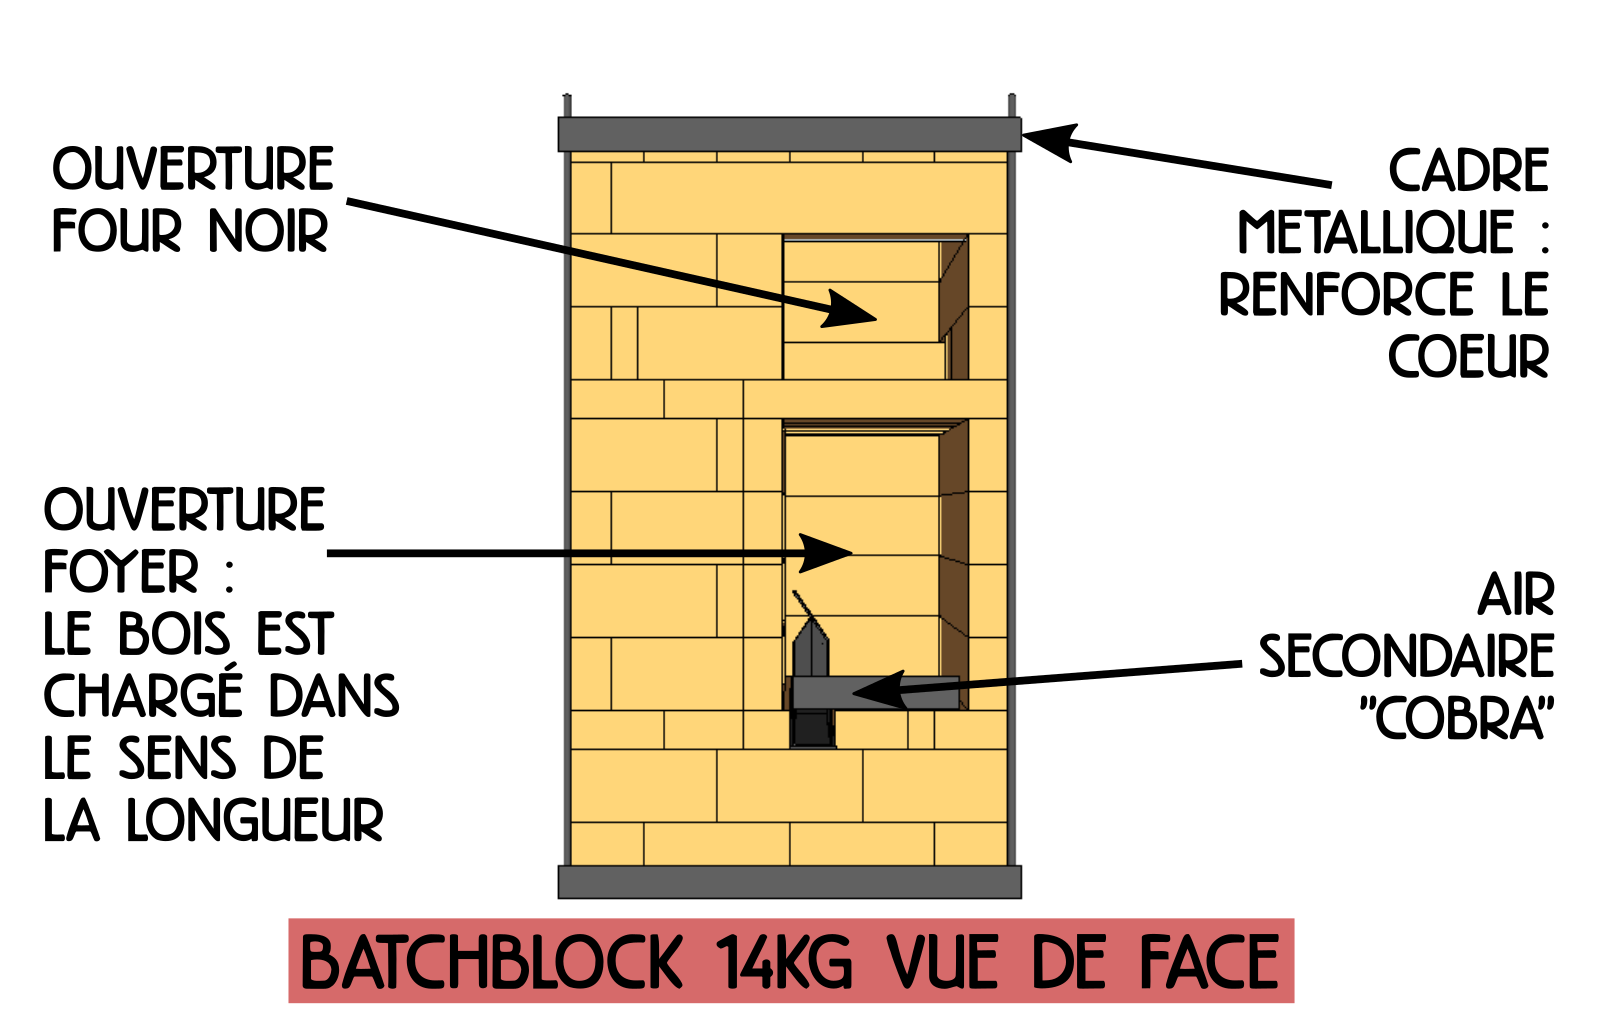
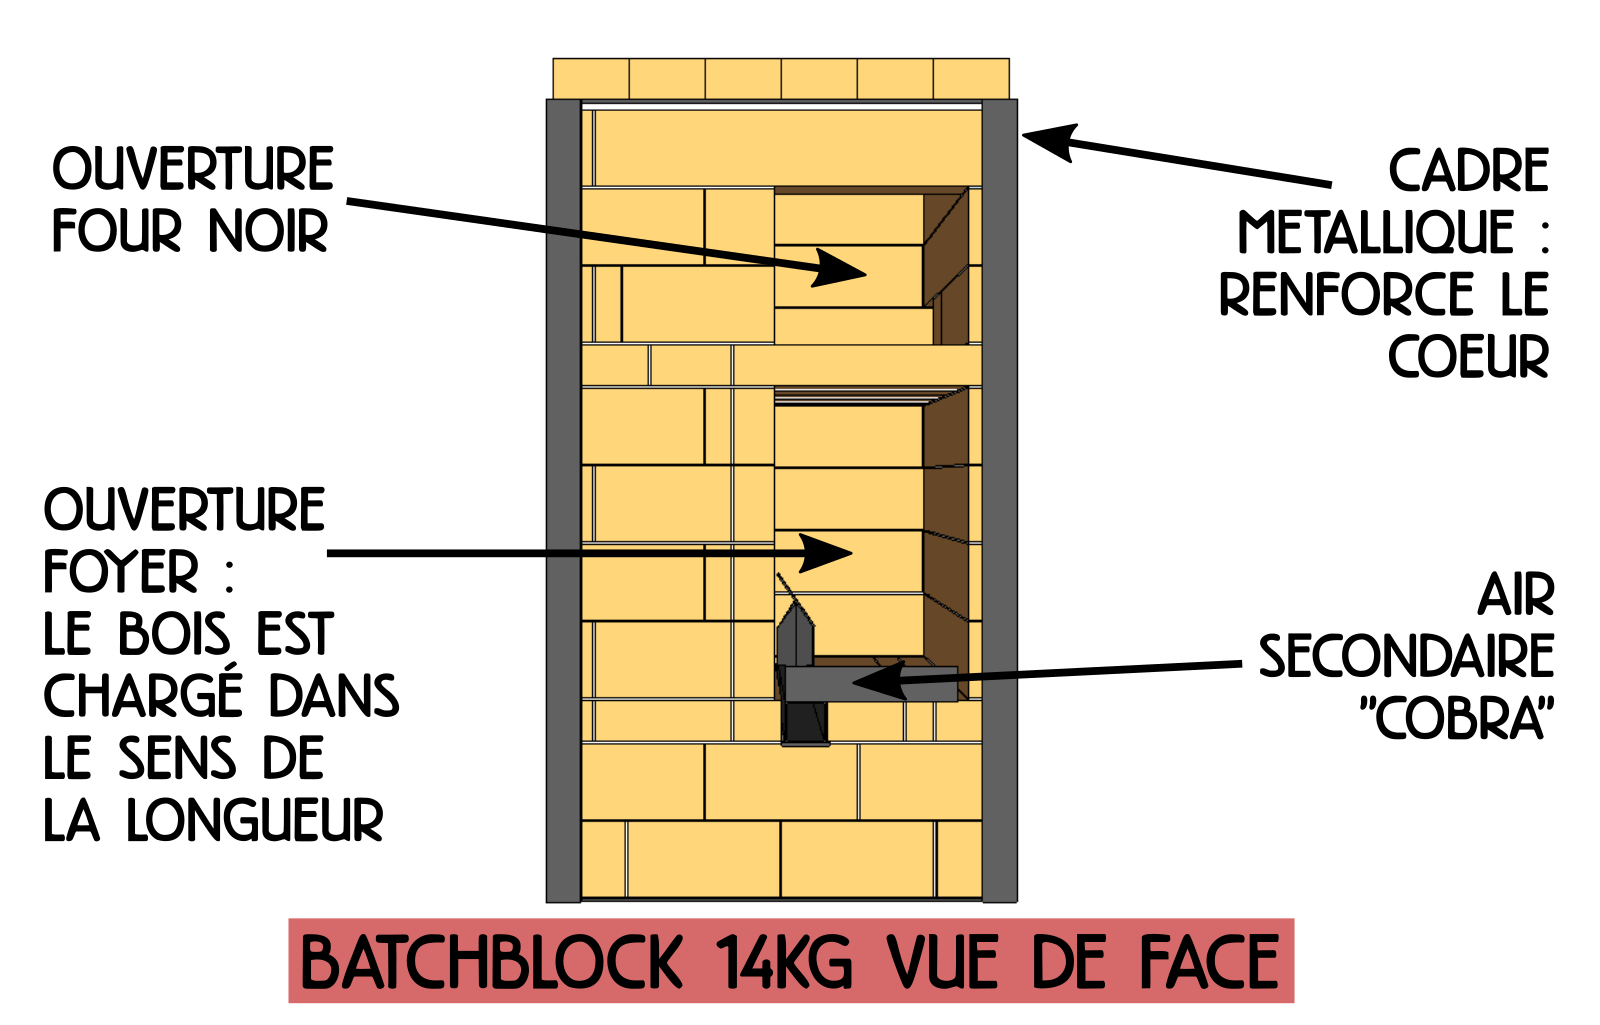
modifs_05212018

Changed region(s): [[0.2188, 0.0312, 0.75, 0.9054]]

diff --git a/batchblock.html b/batchblock.html
@@ -42,6 +42,7 @@
             <li><a href="#pk">Pourquoi le Batchblock ?</a></li>
             <li><a href="#photos">Photos de poêles basés sur le Batchblock</a></li>
             <li><a href="#carac">Les caractéristiques du Batchblock</a></li>
+            <li><a href="#mise_en_oeuvre">La mise en oeuvre</a></li>
             <li><a href="#licence">Licence</a></li>
             <li><a href="#dimensions">Les dimensions</a></li>
             <li><a href="#vues_3D">Vues 3D du Batchblock</a></li>
@@ -137,7 +138,8 @@
               <li style="padding-top: 1em;">Le turbuleur est un demi-octogone (un carré avec deux triangles dans les coins) en briques réfractaires. Ces briques n'ont <b>pas</b> besoin d'être isolantes.</li>
               <li style="padding-top: 1em;">Les gaz passent d'abord dans un four noir où ils y finissent leur combustion. Ils descendent ensuite pour sortir par dessous le foyer. Cette configuration permet aux gaz de sortir aux alentours de 400-500°C maximum. À ces températures, plus
                 besoin d'utiliser des matériaux réfractaires.</li>
-              <li style="padding-top: 1em;">Autour de ce coeur de chauffe il doit y avoir une deuxième peau en briques (pas nécessairement réfractaires). Entre le coeur et la deuxième peau, il doit y avoir un joint de dilatation <b>en carton</b>, placé pendant la construction. Il faut éviter tout contact mécanique entre le coeur de chauffe et l'habillage pour éviter que le coeur de chauffe ne pousse sur l'habillage et le fissure.</li>
+              <li style="padding-top: 1em;">Autour de ce coeur de chauffe il doit y avoir une deuxième peau en briques (pas nécessairement réfractaires). Entre le coeur et la deuxième peau, il doit y avoir un joint de dilatation <b>en carton</b>, placé pendant la construction. Il
+                faut éviter tout contact mécanique entre le coeur de chauffe et l'habillage pour éviter que le coeur de chauffe ne pousse sur l'habillage et le fissure.</li>
               <li style="padding-top: 1em;">Le fait que les gaz très chauds doivent changer plusieurs fois de direction et descendre en dessous du niveau du foyer (ils n'aiment pas ça !) alors qu'ils sont encore très chauds rend l'échange de chaleur entre les gaz et les briques très
                 efficace. En d'autres termes : à puissance égale, les Batchblocks ont besoin d'un accumulateur (banc de chauffe par exemple) plus petit que les Batchrocket. La surface d'échange (SIA) est diminuée d'environ 40%. Les poêles sont donc plus
                 compacts, moins lourds et moins chers.</li>
@@ -153,12 +155,64 @@
           </section>
 
 
+
+          <section id="mise_en_oeuvre">
+            <h2 class="title">Mise en oeuvre</h2>
+            <p>Quelques points importants :</p>
+            <ol>
+              <li>Le cadre métallique qui entoure le coeur de chauffe doit être réalisé en avance. Verticalement, le cadre ne doit pas avoir plus d'1 cm de faux-aplomb.</li>
+              <li>Le coeur de chauffe est maçonné à l'intérieur du cadre. Il est très important que <b>les espaces libres entre le coeur en brique et le cadre métallique soient comblés avec du mortier</b> au fur et à mesure.</li>
+              <li>Les joints au coulis réfractaire doivent faire entre 1 et 3 mm d'épaisseur. Au dernier étage, il faut combler l'espace restant (entre les briques et le sommet du cadre métallique) avec du mortier et des chutes. <b>Même à température ambiante, Le poêle doit être compressé par le cadre</b>.</li>
+              <li>Le foyer et le turbuleur peuvent être enduit avec le mortier réfractaire. C'est une couche d'enduit très fine, réalisée à la truelle, qui agit comme <b>une couche d'usure</b>. Lorsqu'elle sera usée par des années d'utilisation, il suffira
+                de refaire une couche d'enduit (ou un badigeon) avec de l'argile.</li>
+                <li>Le sommet du coeur de chauffe est simplement posé (sans être maçonné) sur le cadre métallique. Ainsi, on peut inspecter périodiquement le coeur de chauffe.</li>
+            </ol>
+
+
+            <div class="row">
+              <div class="col-sm-12">
+                <ul class="row gallery">
+                  <li class="col-sm-4">
+                    <a href="./assets/img/batchrocket_042018/batchrocket_042018_42.JPG" data-toggle="lightbox" data-gallery="example-gallery">
+                                    <img src="./assets/img/batchrocket_042018/batchrocket_042018_42.JPG" class="img-responsive"></a>
+                  </li>
+                  <li class="col-sm-4">
+                    <a href="./assets/img/batchrocket_042018/batchrocket_042018_71.JPG" data-toggle="lightbox" data-gallery="example-gallery">
+                                    <img src="./assets/img/batchrocket_042018/batchrocket_042018_71.JPG" class="img-responsive"></a>
+                  </li>
+                  <li class="col-sm-4">
+                    <a href="./assets/img/batchrocket_042018/batchrocket_042018_55.JPG" data-toggle="lightbox" data-gallery="example-gallery">
+                                    <img src="./assets/img/batchrocket_042018/batchrocket_042018_55.JPG" class="img-responsive"></a>
+                  </li>
+                  <li class="col-sm-4">
+                    <a href="./assets/img/batchrocket_042018/batchrocket_042018_59.JPG" data-toggle="lightbox" data-gallery="example-gallery">
+                                    <img src="./assets/img/batchrocket_042018/batchrocket_042018_59.JPG" class="img-responsive"></a>
+                  </li>
+                  <li class="col-sm-4">
+                    <a href="./assets/img/batchrocket_042018/batchrocket_042018_78.JPG" data-toggle="lightbox" data-gallery="example-gallery">
+                                    <img src="./assets/img/batchrocket_042018/batchrocket_042018_78.JPG" class="img-responsive"></a>
+                  </li>
+                  <li class="col-sm-4">
+                    <a href="./assets/img/batchrocket_042018/batchrocket_042018_79.JPG" data-toggle="lightbox" data-gallery="example-gallery">
+                                    <img src="./assets/img/batchrocket_042018/batchrocket_042018_79.JPG" class="img-responsive"></a>
+                  </li>
+
+                </ul>
+              </div>
+            </div>
+            <p class="subtitle">Détails de la mise en oeuvre. </br>Cliquez sur une photo pour l'afficher en plein écran.</p>
+          </section>
+
+
+
+
           <section id="licence">
             <h2 class="title">Licence</h2>
             <p>Les plans que vous trouverez sur cette page et sur ce site sont distribués librement, sous une licence <a href="https://creativecommons.org/licenses/by-sa/4.0/deed.fr ">open-source CC BY-SA 4.0</a> : vous êtes libres de partager, d'utiliser,
               de transformer ce travail, même pour une utilisation commerciale tant que vous citez les auteurs originaux et que vous partagez les résultats de votre travail sous les mêmes conditions. Dans notre cas, l'auteur original du Batchrocket est
               <a href="http://batchrocket.eu/fr/">Peter Van Den Berg</a>. Le Batchblock est un coeur de chauffe basé sur le Batchrocket, il reprend donc la même licence.</p>
           </section>
+
 
 
           <section id="dimensions">
@@ -174,8 +228,9 @@
           </section>
 
 
+
           <section id="vues_3D">
-            <h2 class="title">Vue 3D du Batchblock</h2>
+            <h2 class="title">Vue 3D du Batchblock (sans la deuxième peau)</h2>
 
             <div class="row">
               <div class="col-sm-12">

diff --git a/index.html b/index.html
@@ -116,6 +116,7 @@
                   <p class="subtitle">Une cuisinière de masse en cours de test.</p>
                 </li>
                 <li class="col-sm-6">
+                  <p>Les schémas généraux du <a href="./batchblock.html">Batchblock</a> ont été mis à jour. Fini le cadre avec tige filetées. C'est dorénavant un cadre complet en cornières et fer plats dans lequel le Batchblock est maçonné.</p>
                   <p>Le manuel d'utilisation des Batchrockets est entrain d'être traduit en Espagnol par Elisabeth G. Merci !</p>
                   <p>Uzume est sur twiza : <a href="https://uzume.twiza.org/">uzume.twiza.org</a> ! Beaucoup de travail de la part de TWIZA pour promouvoir les associations d'éco-construction.. ça bouge !</p>
                   <p>Un nouveau logo par Y. Bleuze et G. Stephens !</p>
